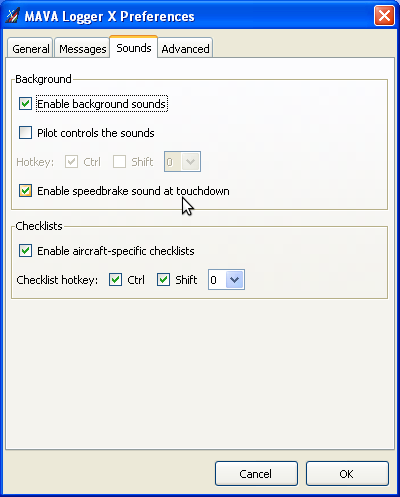
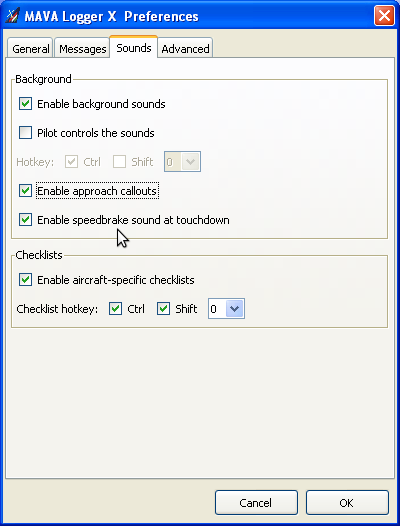
Added information on the callout editor

Changed region(s): [[0.0, 0.0, 0.99, 0.6338], [0.03, 0.9054, 0.99, 0.996]]

diff --git a/doc/manual/hu/index.html b/doc/manual/hu/index.html
@@ -816,6 +816,56 @@
   ellenőrzőlistát, ha a járat megkezdésekor nem volt olyan).
   </p>
   
+  <h2><a name="calloutsEditor">Megközelítési bemondások szerkesztése</a></h2>
+
+  <img src="calloutsEditor.png" alt="The megközelítési bemondások szerkesztője"/> 
+
+  <p>
+  A megközelítési bemondások olyan, adott repülőgéptípushoz tartozó
+  hangfájlok, amelyeket a program a megközelítés során, bizonyos
+  magasságok elérésekor játszik le. E fájlok listáját szerkeszthetjük
+  a megközelítési bemondásokat szerkesztő ablakban, amelyet az 
+  <b>Eszközök/Megközelítési bemondások szeresztése...</b> menüpont
+  kiválasztásával, vagy a <b>Ctrl+M</b> billentyűkombináció 
+  leütésével jeleníthetünk meg.
+  </p>
+
+  <p>
+  Az ablak felső részén választhatjuk ki a repülőgép típusát. Alatta,
+  a bal oldalon két gombot, azoktól jobbra pedig a bemondások listáját
+  láthatjuk. A listában a fájloknak csak a neve látható, de ha az
+  egérmutatót a lista adott eleme fölött hagyjuk egy időre, megjelenik
+  a teljes elérési út. A listát mindig a magasság szerint rendezi a
+  program, de a sorrend átváltható a csökkenő és a növekvő között.
+  </p>
+
+  <p>
+  A <b>Bemondás hozzáadása</b> gomb használatakor egy fájlválasztó 
+  ablak jelenik meg. A fájl a kiválasztása után bekerül a listába
+  valamilyen magassággal, amit azonnal lehet is szerkeszteni. Ha a
+  fájl neve tartalmaz valamilyen számot, akkor az lesz a megajánlott
+  magasság, egyébként a listában szereplő legkisebb és legnagyobb
+  magasság alapján választ a program. Nem
+  tartozhat ugyanaz a magasság egynél több fájlhoz. Ha olyan
+  magasságot állítunk be, ami már szerepel listában, egy dialógus
+  ablakban erről figyelmeztetést kapunk, és választhatunk, hogy a
+  program lecserélje a másik fájlt, vagy hogy folytatjuk a
+  szerkesztést. A lista egy eleméhez tartozó magasság szerkesztéséhez
+  jelöljük ki az adott sort, majd kattintsunk a magasságra.
+  </p>
+
+  <p>
+  Ha a listából kijelölünk egy vagy több elemet, a <b>Törlés</b>
+  gombbal azok törölhetők.
+  </p>
+
+  <p>
+  A változtatásokat csak akkor jegyzi meg a program, ha azok
+  végeztével megnyomjuk az <b>OK</b> gombot. Ha azonban a járat
+  teljesítése már elkezdődött, a bemondások listájának változtatása a
+  folyamatban lévő repülés során nem tapasztalható.
+  </p>
+  
   <h2><a name="prefs">A Beállítások ablak</a></h2>
 
   </p>
@@ -963,6 +1013,13 @@
   a <i>Shift</i> emelők közül valamelyikkel vagy mindkettővel. Ha nem
   engedélyezzük a pilóta által történő vezérlést, a program
   automatikusan játssza le a hangfájlokat.
+  </p>
+
+  <p>
+  Ha a <b>Megközelítési bemondások engedélyezése</b> jelölőnégyzetet
+  kijelöljük, és a használt repülőgép típushoz 
+  <a href="#calloutsEditor">megadunk</a> megközelítési bemondásokat,
+  akkor azokat a program megközelítéskor le is fogja játszani.
   </p>
 
   <p>

diff --git a/doc/manual/en/index.html b/doc/manual/en/index.html
@@ -812,6 +812,55 @@
   the old checklist, or no checklist if there was none).
   </p>
   
+  <h2><a name="calloutsEditor">Editing approach callouts</a></h2>
+
+  <img src="calloutsEditor.png" alt="The Approach callouts Editor"/> 
+
+  <p>
+  The approach callouts are audio files specific to aircraft types, that are
+  played back during approach when passing certain altitudes. The
+  approach callouts editor window allows editing the list of these
+  callout files for each aircraft. The window can be displayed by
+  selecting  <b>Tools/Approach Callouts Editor...</b> or by  pressing 
+  <b>Ctrl+E</b>.
+  </p>
+
+  <p>
+  The top part of the window displays the selector of the aircraft
+  type. Below it, you can find two buttons on the left, and the list
+  of the callouts with the altitudes they belong to on the right. The
+  list displays only the filename portion, but the if you hover the
+  cursor above an item, the full path will be displayed. The list is
+  always sorted according to the altitude, but you change the order
+  from descending to ascending.
+  </p>
+
+  <p>
+  The <b>Add new callout</b> button shows a file selection dialog
+  window. After selecting a file, it will be added to a list with some
+  altitude, which can be edited immediately. If the name of the file
+  contains a number that is possible as an altitude, that will be used
+  as the altitude given to the file, otherwise some meaningful default
+  is selected based on the lowest or highest altitude. 
+  There can be no two files with the same altitude. If you set an
+  altitude, which is already present in the list, a dialog box will be
+  displayed, and you can choose to replace the old file or to continue
+  editing. To edit an altitude already in the list, select that row,
+  and click on the altitude again.
+  </p>
+
+  <p>
+  If you select one or more items in the list, the <b>Remove</b>
+  button becomes available, and pressing it will remove the selected items.
+  </p>
+
+  <p>
+  Note, that any changes you make are effective only if you press
+  the <b>OK</b> button when having finished the modifications. If the
+  flight has already started, no changes made to the corresponding
+  list of callouts have any effect during the flight.
+  </p>
+  
   <h2><a name="prefs">The Preferences Window</a></h2>
 
   </p>
@@ -943,6 +992,13 @@
   A-Z) optionally combined with one or both of the <i>Ctrl</i>
   and <i>Shift</i> modifiers. If this checkbox is not checked, the
   sound files will be played automatically.
+  </p>
+
+  <p>
+  If the <b>Enable approach callouts</b> checkbox is
+  checked, and you have also <a href="#calloutsEditor">set up</a>
+  approach callouts for the aircraft being used, you will hear those 
+  callouts during approach.
   </p>
 
   <p>
